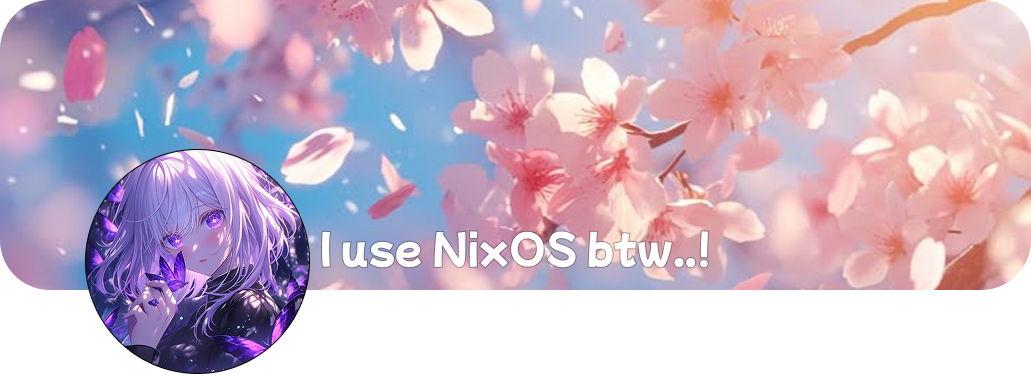
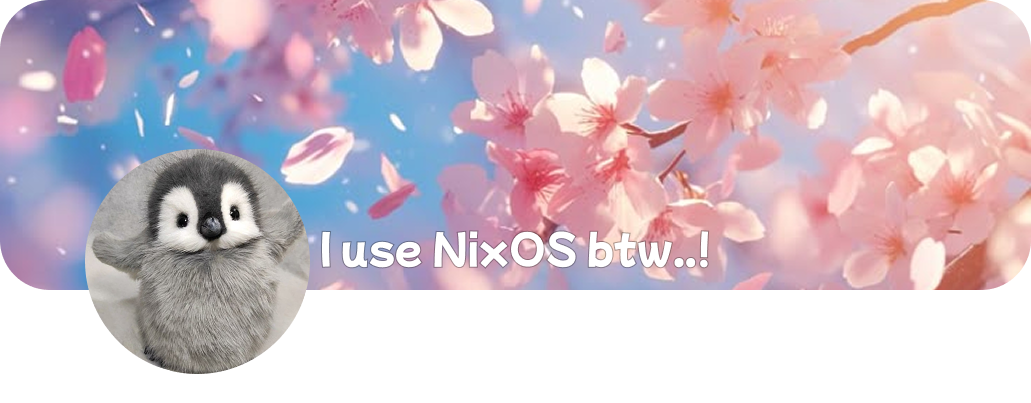
feat: penguin image

diff --git a/README.md b/README.md
@@ -22,9 +22,3 @@
     <img src="https://skillicons.dev/icons?i=nix,c,cpp,lua,golang,ts,js,astro,bash,&perline=10" />
   </a>
 </p>
-
-
-<img align="right" alt="GIF" height="170px" src="https://media.giphy.com/media/J5B1Y8QZnzXXbLQIBu/giphy.gif" />
-
-### 🎧 Spotify Playing
-![spotify-github-profile](https://spotify-github-profile.kittinanx.com/api/view?uid=317q6jzgjyc6imfq5nonsi4qmm6q&cover_image=true&theme=novatorem&bar_color=ff3c74&bar_color_cover=false)
